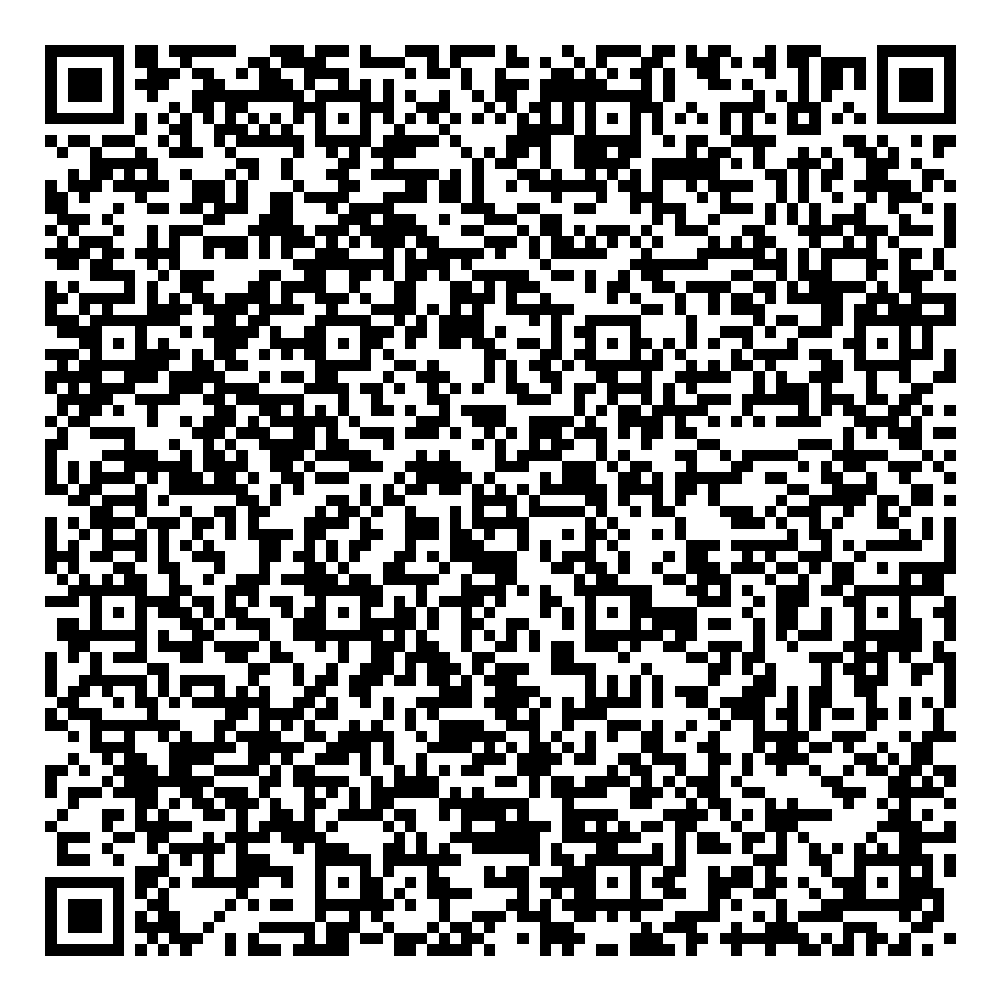
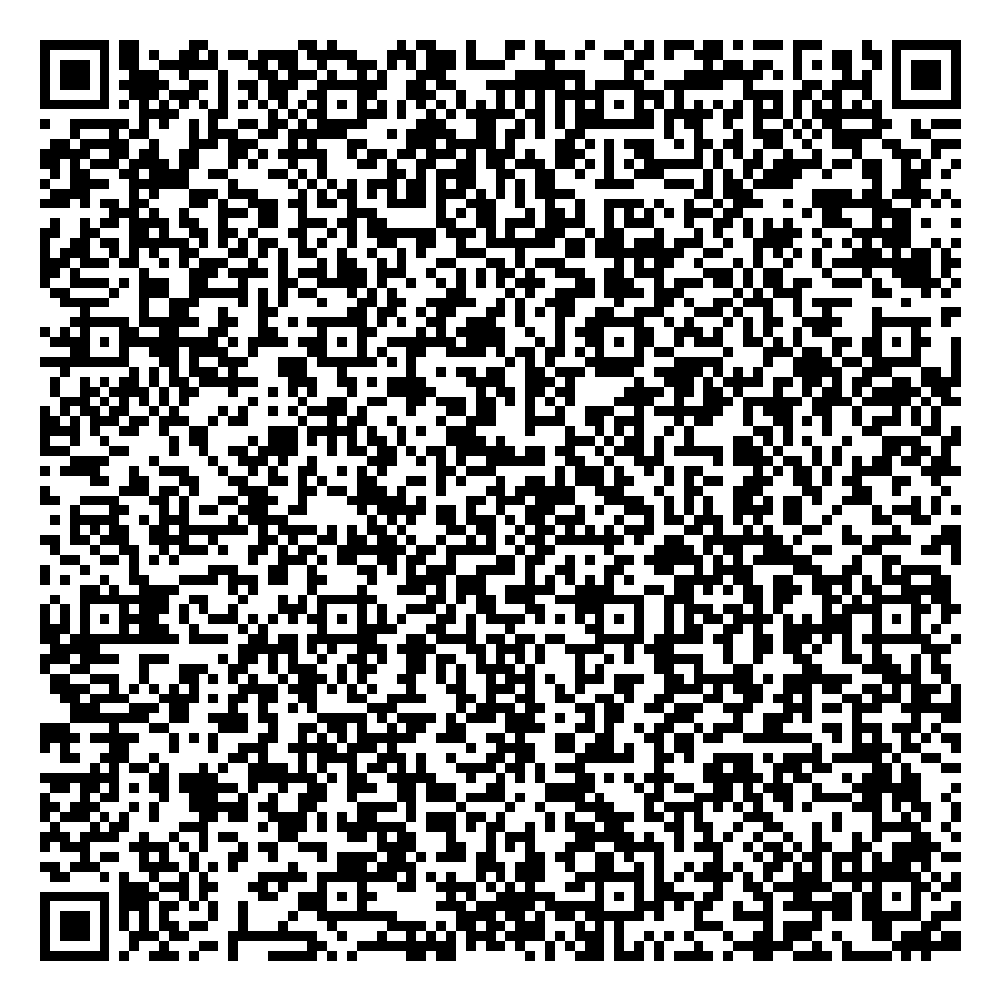
Pin combined182 test QR to verified immutable APK download

diff --git a/yidpad/pilots/combined182-20261111/index.html b/yidpad/pilots/combined182-20261111/index.html
@@ -1,1 +1,1 @@
-<!doctype html><html lang="en"><meta charset="utf-8"><meta name="viewport" content="width=device-width,initial-scale=1"><title>YidPad combined build 182 test QR</title><style>body{font:18px/1.55 system-ui;background:#f3faf7;color:#163f43;max-width:720px;margin:40px auto;padding:20px}h1{line-height:1.2}img{width:min(100%,520px);height:auto;background:white;padding:20px;box-sizing:border-box}aside{padding:18px;border:2px solid #c58b39;background:#fff5df;border-radius:12px}a{color:#12656b}code{overflow-wrap:anywhere;font-size:13px}</style><h1>Combined build 182 test QR</h1><aside><strong>Fresh spare tablet only.</strong> Leave the tablet currently being tested untouched. This pilot is ready for supervised hardware testing, not customer shipping.</aside><p><strong>Build 182 · Version 0.13.139</strong><br>Combines the navigation and security changes from build181 with remote wipe, setup recovery, Google Play policy correction and notifications from recovery177.</p><img src="enrollment.png" alt="Android enrollment QR for combined YidPad build 182"><ol><li>On the spare’s initial Android welcome screen, tap the blank area six times to open QR enrollment.</li><li>Scan this QR and connect Wi-Fi when Android requests it. Follow Android’s enrollment prompts.</li><li>Open <strong>Setup help</strong> and stop. Do not enter a name, Google account or Parent PIN yet.</li><li>Match the spare’s physical support reference in <a href="https://admin.yidpad.com/recovery">Admin tablet recovery</a> before any command.</li></ol><p>First verify recovery check-in, update checks, setup retry and queued cancellation. A factory reset requires fresh staff authentication, target verification and explicit erase confirmation. Confirm access to the legitimate recovery account before erasing.</p><p>Observe the fresh Android welcome screen after a confirmed wipe, then scan this QR again on that same spare. Complete Google Play, Parent Mode, notifications, navigation, reboot and Wi-Fi reconnection acceptance before shipment.</p><p>Navigation changes remain subject to hardware acceptance. This QR has no customer assignment or Wi-Fi credentials and does not update existing fleet tablets.</p><p>APK SHA256<br><code>a581a913ad8052d1c058e7c28592e7fdbe017bbc7c9b01c61175980ca75bd7d4</code></p></html>
+<!doctype html><html lang="en"><meta charset="utf-8"><meta name="viewport" content="width=device-width,initial-scale=1"><title>YidPad combined build 182 test QR</title><style>body{font:18px/1.55 system-ui;background:#f3faf7;color:#163f43;max-width:720px;margin:40px auto;padding:20px}h1{line-height:1.2}img{width:min(100%,520px);height:auto;background:white;padding:20px;box-sizing:border-box}aside{padding:18px;border:2px solid #c58b39;background:#fff5df;border-radius:12px}a{color:#12656b}code{overflow-wrap:anywhere;font-size:13px}</style><h1>Combined build 182 test QR</h1><aside><strong>Fresh spare tablet only.</strong> Leave the tablet currently being tested untouched. This pilot is ready for supervised hardware testing, not customer shipping.</aside><p><strong>Build 182 · Version 0.13.139</strong><br>Combines the navigation and security changes from build181 with remote wipe, setup recovery, Google Play policy correction and notifications from recovery177.</p><img src="enrollment.png" alt="Android enrollment QR for combined YidPad build 182"><ol><li>On the spare’s initial Android welcome screen, tap the blank area six times to open QR enrollment.</li><li>Scan this QR and connect Wi-Fi when Android requests it. Follow Android’s enrollment prompts.</li><li>Open <strong>Setup help</strong> and stop. Do not enter a name, Google account or Parent PIN yet.</li><li>Match the spare’s physical support reference in <a href="https://admin.yidpad.com/recovery">Admin tablet recovery</a> before any command.</li></ol><p>First verify recovery check-in, update checks, setup retry and queued cancellation. A factory reset requires fresh staff authentication, target verification and explicit erase confirmation. Confirm access to the legitimate recovery account before erasing.</p><p>Observe the fresh Android welcome screen after a confirmed wipe, then scan this QR again on that same spare. Complete Google Play, Parent Mode, notifications, navigation, reboot and Wi-Fi reconnection acceptance before shipment.</p><p>Navigation changes remain subject to hardware acceptance. This QR has no customer assignment or Wi-Fi credentials and does not update existing fleet tablets.</p><p>This test QR downloads the exact signed APK from a pinned commit in YidPad’s public GitHub update repository. The normal fleet update channel is unchanged.</p><p>APK SHA256<br><code>a581a913ad8052d1c058e7c28592e7fdbe017bbc7c9b01c61175980ca75bd7d4</code></p></html>

diff --git a/yidpad/pilots/combined182-20261111/README.md b/yidpad/pilots/combined182-20261111/README.md
@@ -1,3 +1,5 @@
 Combined spare-tablet test pilot182 /0.13.139. Integrates frozen navigation/security181 source with recovery177, the Google account-policy correction and notifications. No stable manifest change and no customer assignment or Wi-Fi secret in QR. Hardware acceptance, including navigation, setup and actual remote wipe, remains pending. Never operate the protected test tablet.
 
 SHA256 a581a913ad8052d1c058e7c28592e7fdbe017bbc7c9b01c61175980ca75bd7d4
+
+The QR uses the exact APK pinned to commitf92bcf5ee1c8dd18dee8dd3aae5f6be43e824634 on raw.githubusercontent.com, independently of the delayed Pages publication. Downloaded bytes match the signed APK. Minimum provisioning version is182.
